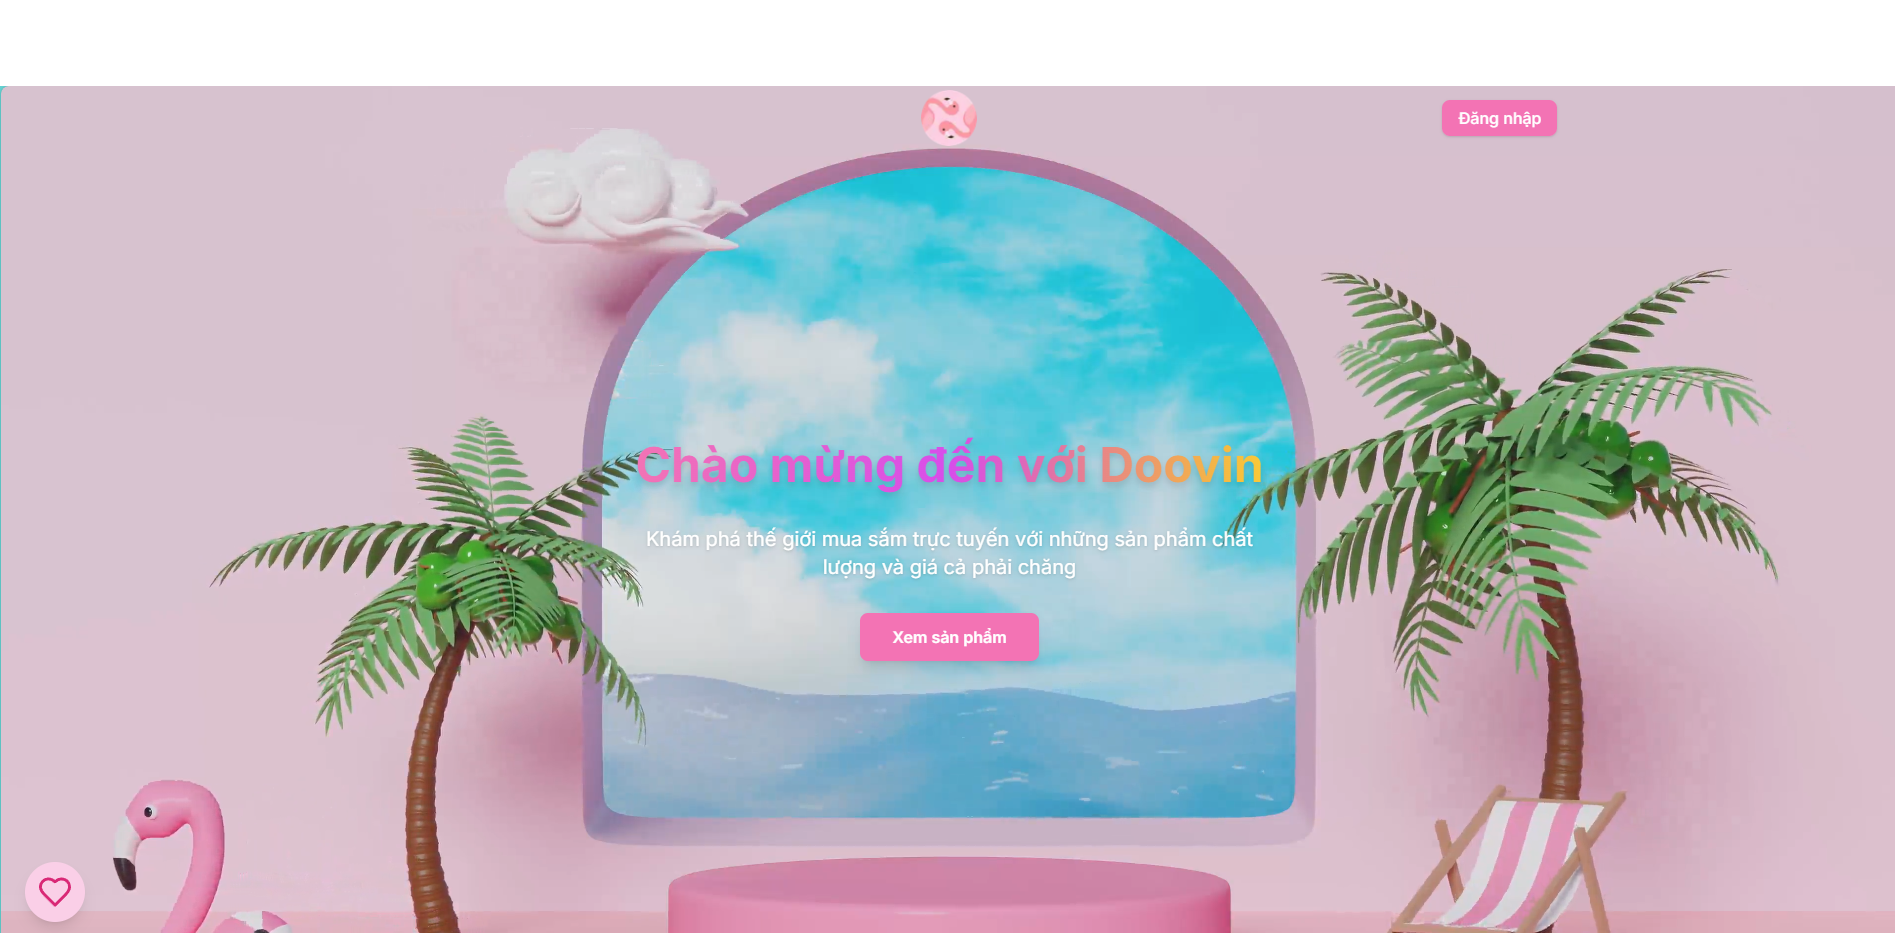
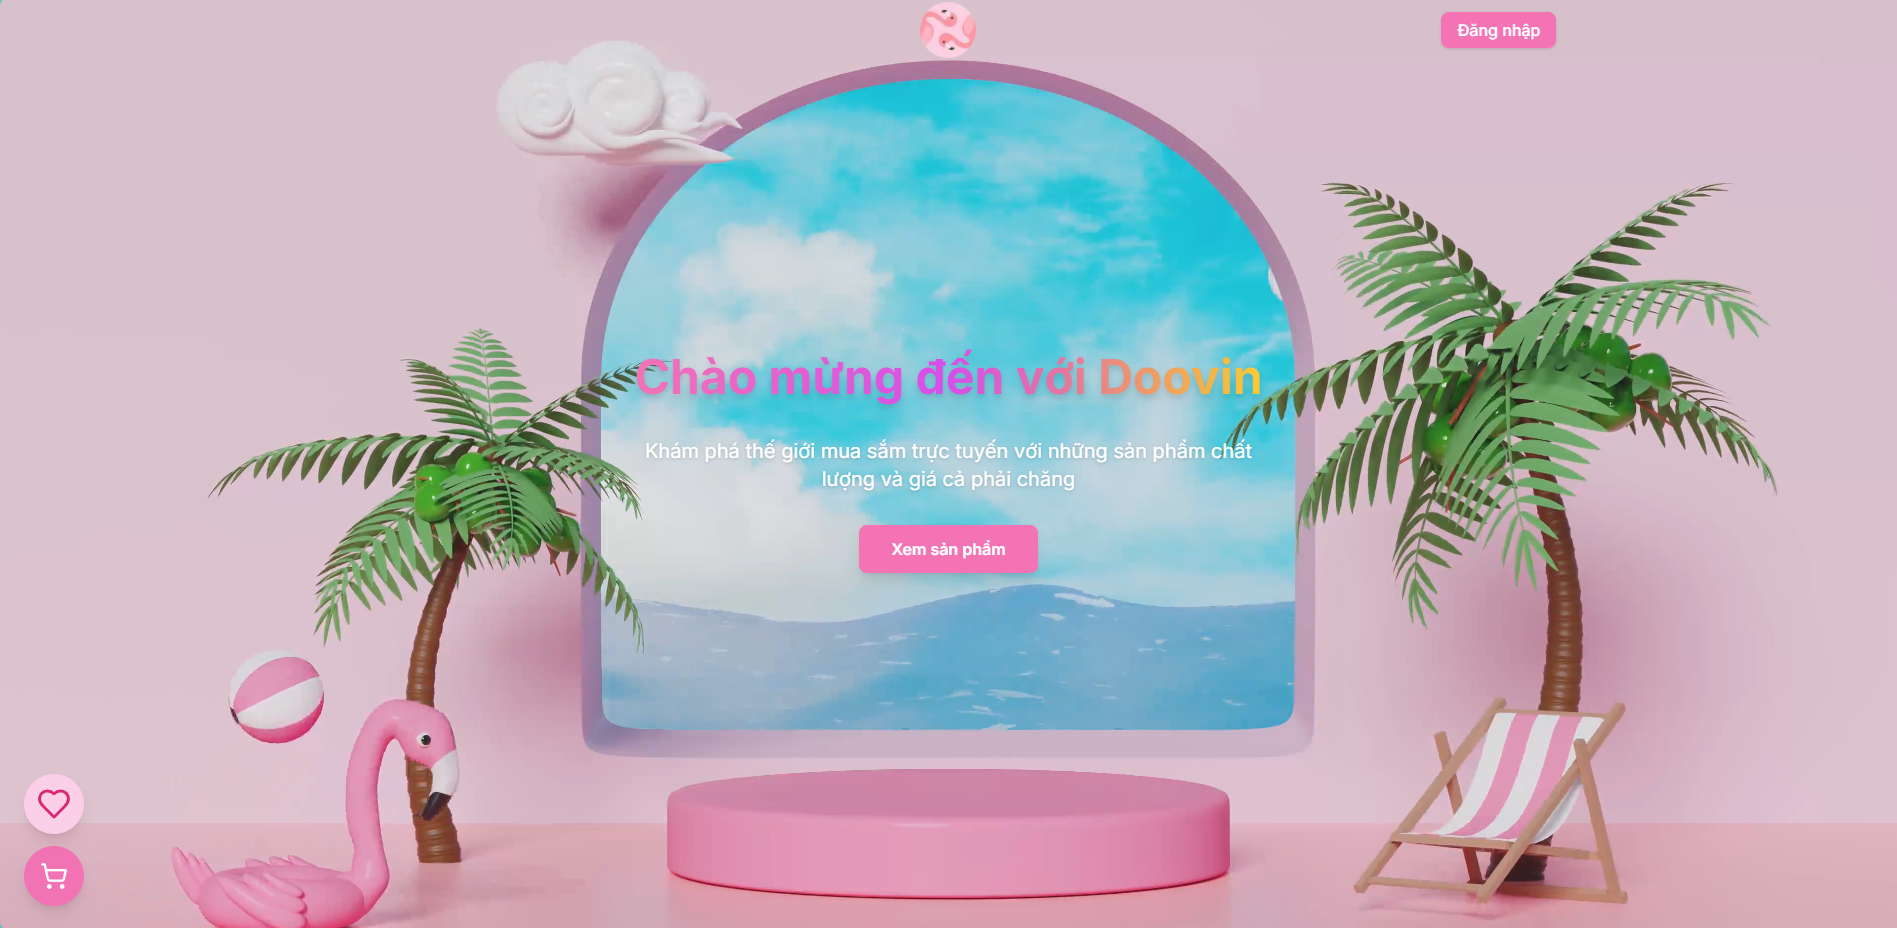
Modify home screenshot to reflect recent design changes.

diff --git a/README.md b/README.md
@@ -153,9 +153,9 @@ ecommerce-website/
 - [x] Analytics & user behavior tracking (PostHog)
 - [x] Export reports (PDF, Excel)
 - [ ] Stripe payment integration (coming soon)
-- [ ] Advanced analytics & reporting
-- [ ] More payment methods
-- [ ] Multi-language support
+- [ ] Advanced analytics & reporting 
+- [ ] More payment methods (coming soon)
+- [ ] Multi-language support (coming soon)
 - [ ] More UI/UX enhancements
 - [ ] Performance optimization
 
